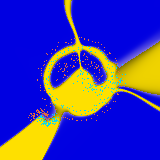
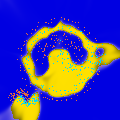
first commit

diff --git a/IAtests/image_reconition/matrix/load_tom_jerry.py b/IAtests/image_reconition/matrix/load_tom_jerry.py
@@ -130,17 +130,6 @@ def lists_to_numpy_arrays(X, y):
     y = np.array(y).reshape(-1, 1)
     return X, y
 
-# Load the images
-X, y = load_images()
-X, y = lists_to_numpy_arrays(X, y)
-# X1, y1 = load_test_images()
-# X1, y1 = lists_to_numpy_arrays(X1, y1)
-
-# Print dataset information
-print(f"Dataset shape: {X.shape}")
-print(f"Number of Tom images: {np.sum(y == 0)}")
-print(f"Number of Jerry images: {np.sum(y == 1)}")
-
 def split_data(X, y, train_percentage=0.9):
     # Generate random indices for splitting
     indices = np.random.permutation(len(X))
@@ -156,8 +145,19 @@ def split_data(X, y, train_percentage=0.9):
     
     return train_data, test_data, train_labels, test_labels
 
+# Load the images
+X, y = load_images()
+X, y = lists_to_numpy_arrays(X, y)
+# X1, y1 = load_test_images()
+# X1, y1 = lists_to_numpy_arrays(X1, y1)
+
+# Print dataset information
+print(f"Dataset shape: {X.shape}")
+print(f"Number of Tom images: {np.sum(y == 0)}")
+print(f"Number of Jerry images: {np.sum(y == 1)}")
+
 # Usage in your code:
-width = 128
+width = 2048
 length = 16
 
 train_data, test_data, train_labels, test_labels = split_data(X, y, 0.9)

diff --git a/IAtests/image_reconition/matrix/final_tests.py b/IAtests/image_reconition/matrix/final_tests.py
@@ -1,9 +1,20 @@
 import pil
 import test_network
 import sk_dataset
+from networkMatrix import NetworkMatrix
+import load_tom_jerry
 
 X, target = sk_dataset.get_dataset()
-IA = test_network.create_model(X, target.reshape(-1, 1), width=int(16), length=8, learning_rate = 0.2, nb_iter=20000)
+# Usage in your code:
+width = 128
+length = 16
+
+train_data, test_data, train_labels, test_labels = load_tom_jerry.split_data(X, target, 0.9)
+train_labels = train_labels.reshape(-1, 1)
+
+IA = NetworkMatrix(nb_input=train_data.shape[1], width=int(width), nb_output=train_labels.shape[1], length=length, learning_rate=0.01)
+
+IA = test_network.create_model(train_data, train_labels.reshape(-1, 1), IA, nb_iter=int(1500))
 
 IA.load()
-pil.show("newData.png", IA, X, target)
+# pil.show("newData.png", IA, X, target)

diff --git a/IAtests/image_reconition/matrix/networkMatrix.py b/IAtests/image_reconition/matrix/networkMatrix.py
@@ -74,10 +74,10 @@ class NetworkMatrix:
         for i in tqdm(range(nb_iter)):
             activations = self.forward_propagation(X)
             Loss.append(self.log_loss(activations[-1], y))
-            if i % 5 == 0:
-                a = self.get_accuracy(activations[-1], y)
+            a = self.get_accuracy(activations[-1], y)
+            if i % 10 == 0:
                 print(a, "%")
-                #show("newData.png", self, X, y)
+                # show("newData.png", self, X, y)
             Accuracy.append(a)
             gradients = self.back_propagation(activations, X, y)
             self.minimization(gradients)

diff --git a/IAtests/image_reconition/matrix/pil.py b/IAtests/image_reconition/matrix/pil.py
@@ -9,12 +9,12 @@ sys.path.append(project_root)
 
 
 def show(src, reseau, X, Y):
-    size = 2
+    size = 3
     zoom = 1
-    startX = -2 * size
-    startY = -2 * size
-    width = 4 * size
-    height = 4 * size
+    startX = -1 * size
+    startY = -1 * size
+    width = 2 * size
+    height = 2 * size
     multi = 20 * zoom
     increment = 0.050 / zoom
     threshold = 0.5
